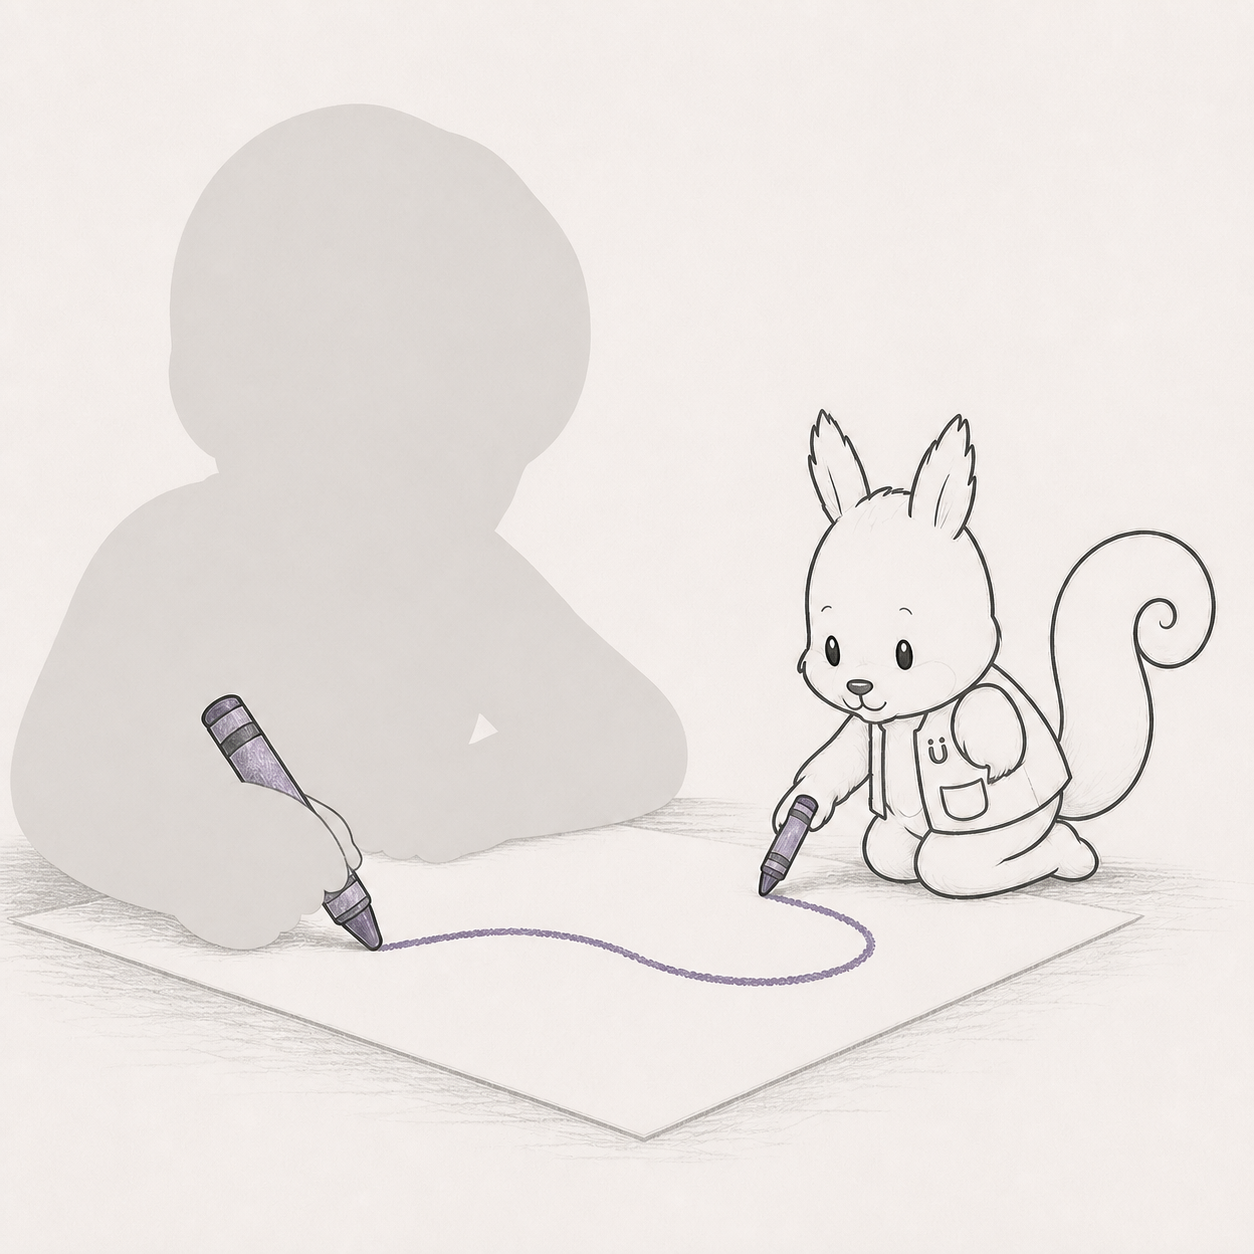
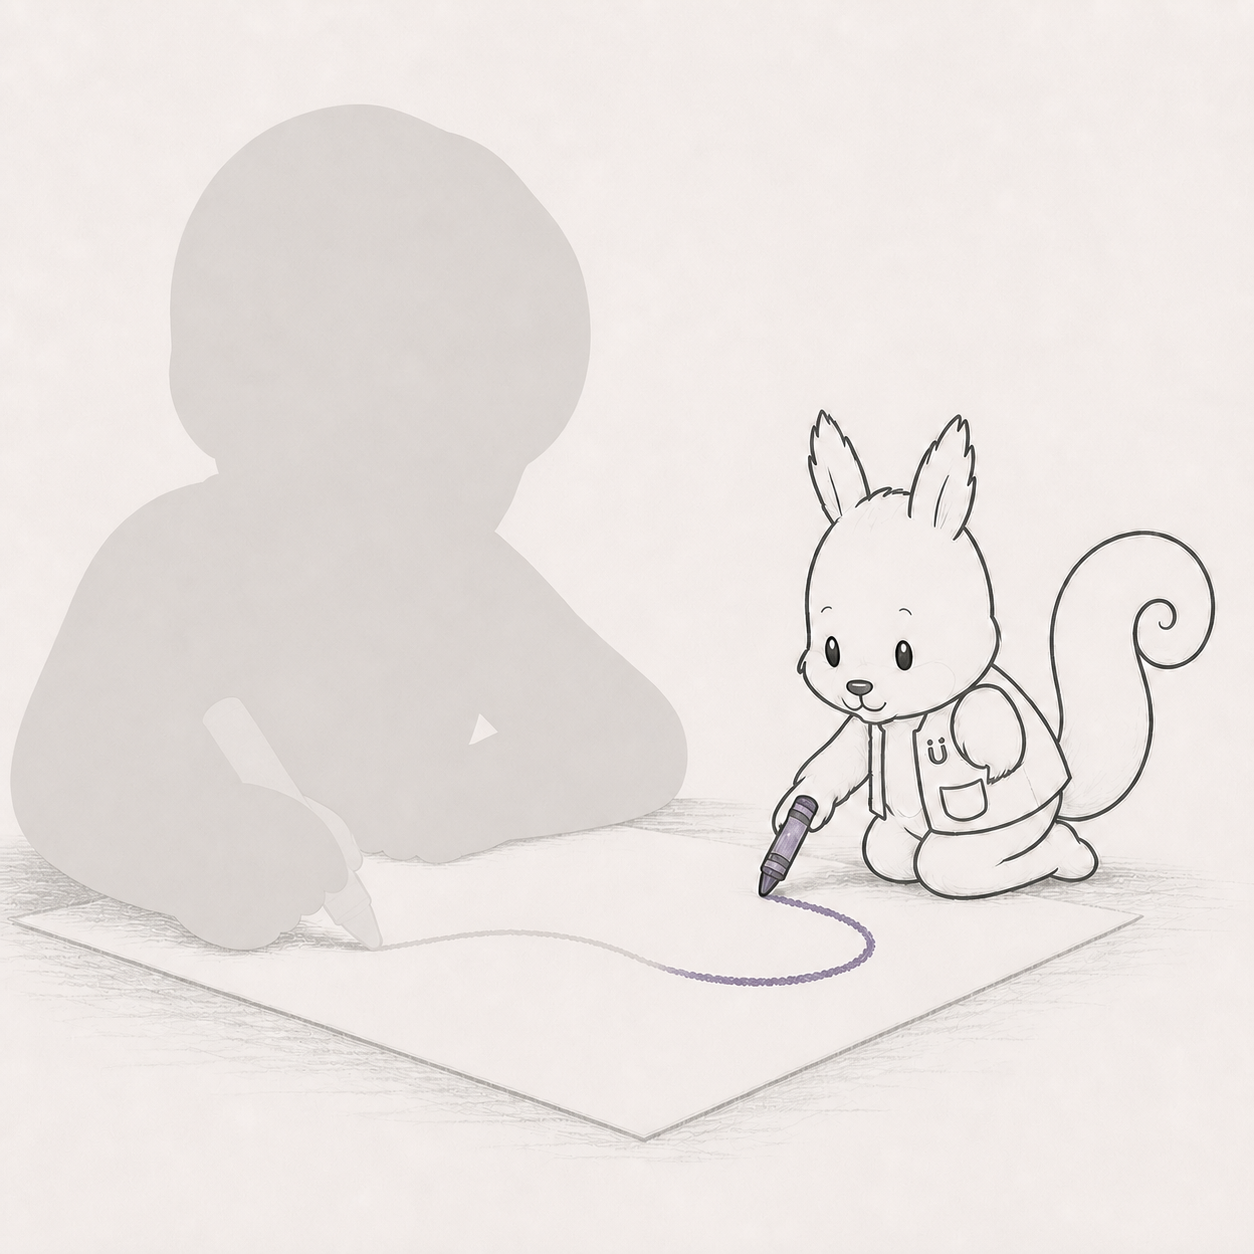
Align growth frame props with photo masks

diff --git a/planning/participatory-growth-frames/index.html b/planning/participatory-growth-frames/index.html
@@ -133,9 +133,8 @@
       <div class="grid">
         <article><button class="visual"><img src="../participatory-growth-frame-studies/luke-frame-tiny-discovery.png" alt="子どもの指先へ虫眼鏡を合わせるルーク"></button><div class="content"><span class="kind">DISCOVER</span><h3>その小さなもの、発見</h3><p class="scene">子どもがつまんだ小さな物が、ルークの虫眼鏡の中心になります。</p><p class="development"><strong>軽く見る発達</strong>親指と人差し指でつまむ／小さな物へ狙いを合わせる／手元を観察する</p><p class="pose"><strong>写真の姿勢：</strong>胸の前で小さな物をつまむ</p></div></article>
         <article><button class="visual"><img src="../participatory-growth-frame-studies/luke-frame-release-drop.png" alt="子どもが手を離したボールの行き先を見るルーク"></button><div class="content"><span class="role role-milestone">MILESTONE</span><span class="kind">RELEASE</span><h3>はなしたら、どこへいく？</h3><p class="scene">子どもの開いた指から小さなボールが落ち、道を通ってルークの前へ。ルークは手を出さず、行き先を一緒に見ます。</p><p class="development"><strong>この姿勢・動作で見えること</strong>握った物を意図して離す／落ちる物を目で追う／原因と結果を確かめる</p><p class="pose"><strong>写真の姿勢：</strong>座って片腕を前へ。手のひらと指を開く</p></div></article>
-        <article><button class="visual"><img src="../participatory-growth-frame-studies/luke-frame-shared-build.png" alt="子どもの積み木へ屋根を添えるルーク"></button><div class="content"><span class="kind">BUILD</span><h3>さいごの一個は、いっしょに</h3><p class="scene">子どもが置くブロックとルークの部品が、一つの構造物になります。</p><p class="development"><strong>軽く見る発達</strong>積み木を置く／位置と向きを合わせる／形を組み合わせて作る</p><p class="pose"><strong>写真の姿勢：</strong>座る・膝立ちで積み木を置く</p></div></article>
+        <article><button class="visual"><img src="../participatory-growth-frame-studies/luke-frame-shared-build.png" alt="崩れた積み木からもう一度作る子どものそばで待つルーク"></button><div class="content"><span class="role role-together">TOGETHER</span><span class="kind">BUILD &amp; TRY AGAIN</span><h3>くずれても、ここから</h3><p class="scene">崩れた積み木から、子どもが次の一個を選んで置きます。ルークは部品も答えも持たず、同じ高さで続きを待ちます。</p><p class="development"><strong>二人の間で起きていること</strong>積み木を置く／崩れたあとに試し直す／自分の方法で続きを作る</p><p class="pose"><strong>写真の姿勢：</strong>座る・膝立ちで、積み木を一つ持って中央へ置く</p></div></article>
         <article><button class="visual"><img src="../participatory-growth-frame-studies/luke-frame-shared-line.png" alt="子どもの描いた線を続けるルーク"></button><div class="content"><span class="kind">DRAW</span><h3>線のつづきは、こっち</h3><p class="scene">子どもの線を正さず、ルークがその先へ短い線を返して一つの輪を作ります。</p><p class="development"><strong>軽く見る発達</strong>クレヨンを握る／紙へ線を残す／手を動かして線を続ける</p><p class="pose"><strong>写真の姿勢：</strong>紙へクレヨンで線を描く手元</p></div></article>
-        <article><button class="visual"><img src="../participatory-growth-frame-studies/cheer-frame-try-again-together.png" alt="崩れた積み木をもう一度積む子どもの横で待つルーク"></button><div class="content"><span class="role role-cheer">CHEER</span><span class="kind">TRY AGAIN</span><h3>もう一回の、そばにいる</h3><p class="scene">崩れた積み木を子どもが自分で拾い直します。ルークは道具も部品も持たず、同じ高さで次の一手を待ちます。</p><p class="development"><strong>この場面で守っていること</strong>自分からやり直す／途中の形を受け入れる／試し方を変える</p><p class="pose"><strong>写真の姿勢：</strong>床に座る・膝立ちで、落ちた積み木を拾って置く</p></div></article>
       </div>
     </section>
 
@@ -185,8 +184,7 @@
         'luke-frame-tiny-discovery.png',
         'luke-frame-release-drop.png',
         'luke-frame-shared-line.png',
-        'luke-frame-shared-build.png',
-        'cheer-frame-try-again-together.png'
+        'luke-frame-shared-build.png'
       ],
       relationship: [
         'relationship-frame-ask-to-be-held.png',
@@ -205,7 +203,7 @@
     const cardRoles = {
       cheer: new Set([
         'gen-frame-relax-looking-up.png','gen-frame-relax-leaning-together.png','gen-frame-follow-walking.png','gen-frame-follow-stairs.png',
-        'cheer-frame-pause-before-trying.png','cheer-frame-try-again-together.png'
+        'cheer-frame-pause-before-trying.png'
       ]),
       milestone: new Set([
         'gen-frame-prone-dialogue.png','gen-frame-seated-reach.png','gen-frame-balance-mirror.png','gen-frame-ball-exchange.png',

diff --git a/planning/growth-frame-balance-and-production-plan.md b/planning/growth-frame-balance-and-production-plan.md
@@ -96,6 +96,14 @@
 - CHEERにも写真を撮って残す価値があることを、文言量とカード面積で同等に扱う。
 - 一枚に複数の価値がある場合は、補助タグを最大一つまで添える。
 
+### 写真に含まれる物の扱い
+
+- 子どもや保護者が直接触れる台、段差、玩具、道具、食卓は、人物と同じ淡い影のマットで示す。
+- 影は完成した小道具ではなく、実際の写真に含まれる物を重ねるための差し込み位置とする。
+- 動きの軌跡、落ちた後の結果、注意の往復だけを黄色や紫の短い線で残す。
+- 先生固有の道具は通常の線画で残せるが、子どもの動作を代行する物は持たせない。
+- 写真を入れたとき、影の物が実物に置き換わり、イラストと写真の小道具が二重にならないことを確認する。
+
 ## development環境との照合
 
 ### 確認したデータ
@@ -120,7 +128,7 @@
 
 ### 現在の網羅傾向
 
-現在の29枚は、次の領域を比較的よく扱えている。
+現在の28枚は、次の領域を比較的よく扱えている。
 
 - 姿勢と移動: あおむけ、うつ伏せ、座る、立つ、歩く、階段、片足でのバランス
 - 共同注意と意図共有: 指差し、同じ物を見る、好きな物を見せる
@@ -224,8 +232,7 @@
 1. その小さなもの、発見（つまむ・観察する）
 2. はなしたら、どこへいく？（意図して離す・落下を追う）
 3. 線のつづきは、こっち（道具を持ち、痕跡を残す）
-4. さいごの一個は、いっしょに（位置と向きを合わせて構成する）
-5. もう一回の、そばにいる（崩れた後に再試行する）
+4. くずれても、ここから（構成する・崩れた後に再試行する）
 
 ### 関係の中で育つ｜安心から協働へ
 
